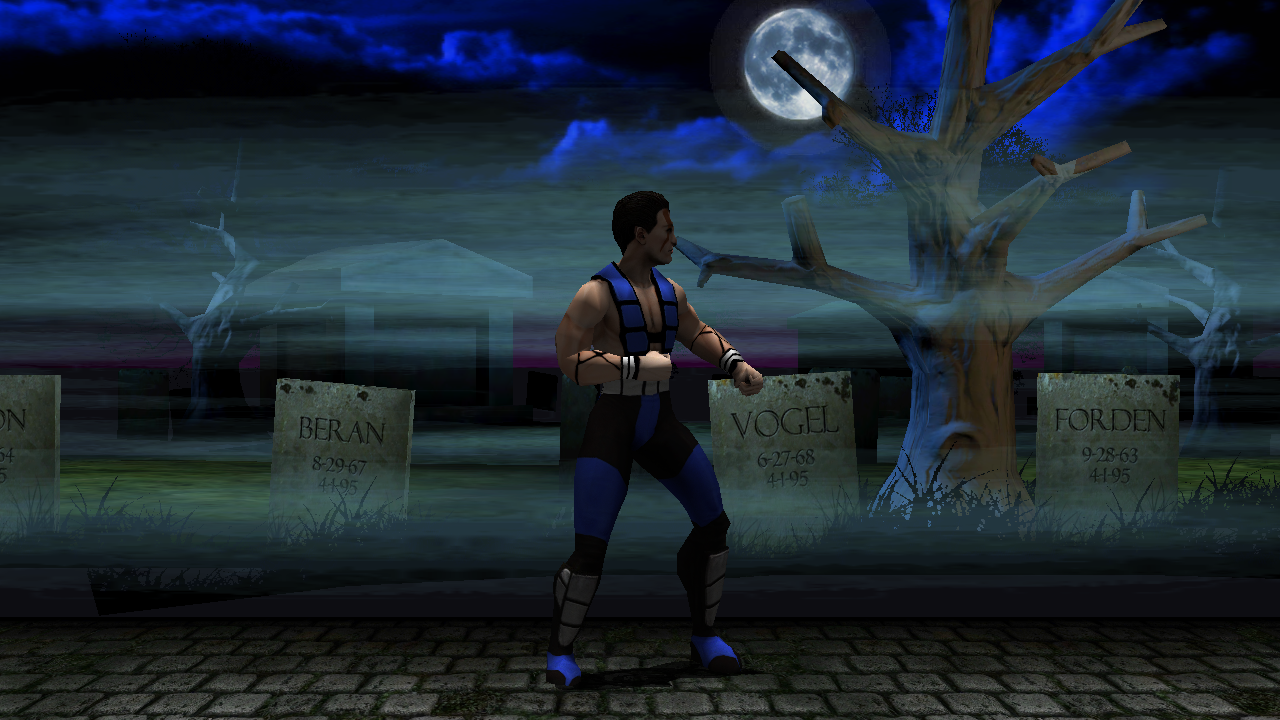
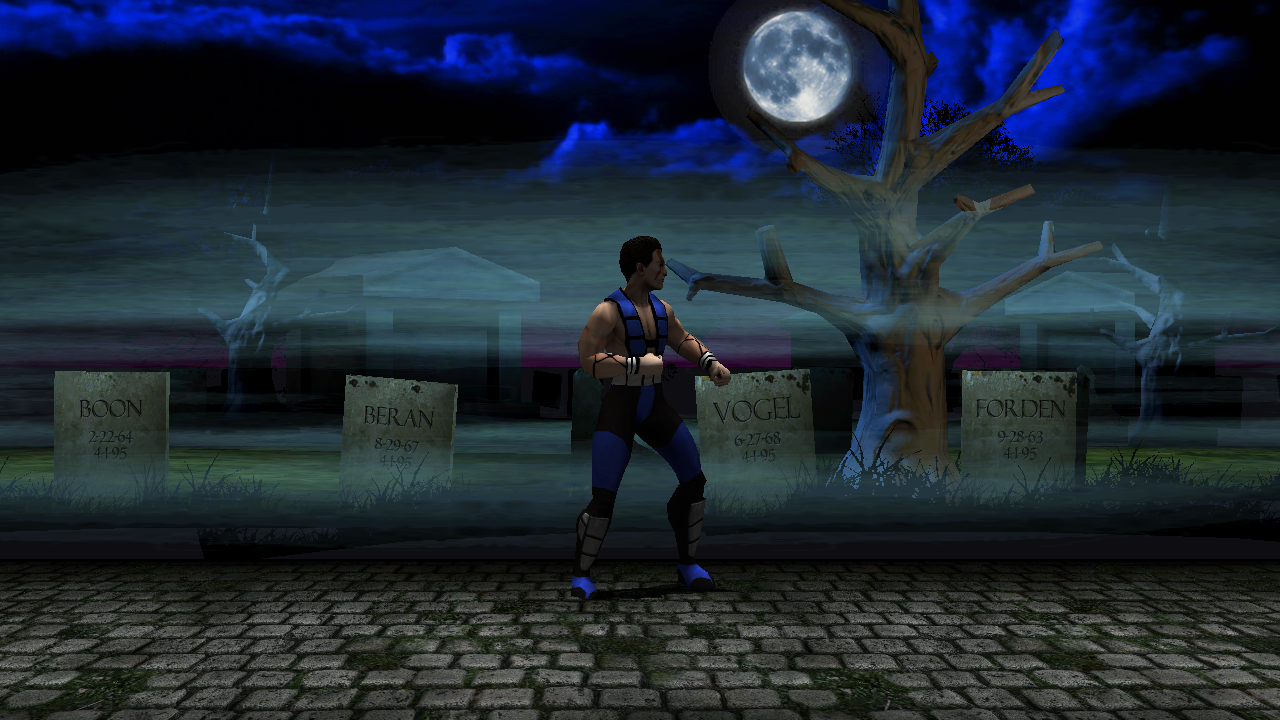
Fit the camera from a capture of the game, not from stills
The user recorded 59 seconds of the real game at 1920x1080. Frames off it settle
several things that eyeballing compressed screenshots had got wrong, one of them
a defect I introduced.

**The camera was too close.** Two frames give distance 4.88 fighter heights with
the fighters apart and 4.09 with them close -- it pulls back as they separate,
which is what every MK camera does -- against the 3.30 fitted earlier from a
still. The eye height comes out 0.64 and 0.67 across those two frames, and that
stability across different framings is what says the fit is sound rather than
two numbers that happen to solve.

At 3.30 the near, BRIGHT half of the cobble plane fell below the frame. COBBLES
is painted with a vertical gradient -- row 0 is brightness 0 and row 1023 is 239
-- so only its dark far edge was on screen, the floor looked flat and dim, and
its far edge read as a hard line against the gap behind it instead of fading
out. The gradient was always being drawn correctly; the camera was cropping to
the wrong half of it.

**The character scale is right.** In the capture the BOON gravestone is 200px
against 585px of fighter, a ratio of 0.34; our geometry with the same
perspective gives 0.33. An earlier reading off a zoomed YouTube crop had put
this at 84% against 33% and sent me looking for a 2.5x error in the skinning
that does not exist.

Also confirmed from the capture: the game is pillarboxed to 4:3, both fighters
[…]

diff --git a/runtime/demo.c b/runtime/demo.c
@@ -135,15 +135,26 @@ static float g_cam_dist = 1.0f;
  * reaches the projection and this port has not found it. The demo derives its
  * far plane from the stage instead and says so.
  *
- * The distance and eye height ARE fitted, but honestly this time: two points
- * off a retail frame -- feet at 95% of frame height, head at 28% -- give
- * distance 3.30 and eye 0.66, and those then PREDICT the far edge of the
- * cobbles at 86.6% where the frame shows 83%. Fitted on two, checked against a
- * third it never saw. The earlier attempt solved three unknowns from three
- * points, fit exactly, validated nothing and was wrong. */
+ * The distance and eye height are fitted from a 1920x1080 capture of the game
+ * itself, two frames of it, and the fit carries its own check:
+ *
+ *      fighters apart (frame 1996)   d = 4.88 heights, eye = 0.64
+ *      fighters close (frame  961)   d = 4.09 heights, eye = 0.67
+ *
+ * **The camera pulls back as the fighters separate**, which is what every MK
+ * camera does, so the distance is not one number. The eye height barely moves
+ * across the two, and that stability is what says the fit is sound rather than
+ * two unrelated numbers that happen to solve.
+ *
+ * An earlier pass read these off a compressed screenshot with a HUD over it and
+ * got 3.30 -- far too close. At that distance the near, BRIGHT half of the
+ * cobble plane falls below the frame and only its dark far edge is on screen,
+ * which is why the floor looked flat and dim and why its far edge read as a
+ * hard line instead of fading out. Measuring the video fixed a defect that
+ * eyeballing a still had introduced. */
 #define GAME_FOV_DEGREES 25.0f
 
-static float g_cam_far   = 3.30f;
+static float g_cam_far   = 4.48f;
 static float g_cam_eye   = 0.66f;
 static float g_cam_pitch = 0.0f;
 
@@ -154,6 +165,9 @@ static int g_list = 0;
  * inspection aid -- telling "this surface is black" from "there is no surface
  * here" is otherwise guesswork. */
 static const char *g_only = NULL;
+
+/* --no-cull: draw both faces, to tell a missing surface from a culled one. */
+static int g_no_cull = 0;
 
 /* The stage's file stem, for its sibling `.events`. */
 static const char *g_stage_name = "";
@@ -418,7 +432,7 @@ static void stage_draw(int frame)
      *      0x5fa44  blx _glEnable
      * The stage's geometry is authored one-sided; without this the far wall of
      * every solid is drawn too. */
-    glEnable(GL_CULL_FACE);
+    if (!g_no_cull) glEnable(GL_CULL_FACE);
 
     glEnableClientState(GL_VERTEX_ARRAY);
     glEnableClientState(GL_TEXTURE_COORD_ARRAY);
@@ -924,6 +938,7 @@ int main(int argc, char **argv)
         else if (!strcmp(argv[i], "--list")) g_list = 1;
         else if (!strcmp(argv[i], "--only") && i + 1 < argc)
             g_only = argv[++i];
+        else if (!strcmp(argv[i], "--no-cull")) g_no_cull = 1;
         else if (!strcmp(argv[i], "--mist-hz") && i + 1 < argc)
             g_mist_hz = (float)atof(argv[++i]);
         else if (!strcmp(argv[i], "--no-mist")) g_mist_hz = -1.0f;
